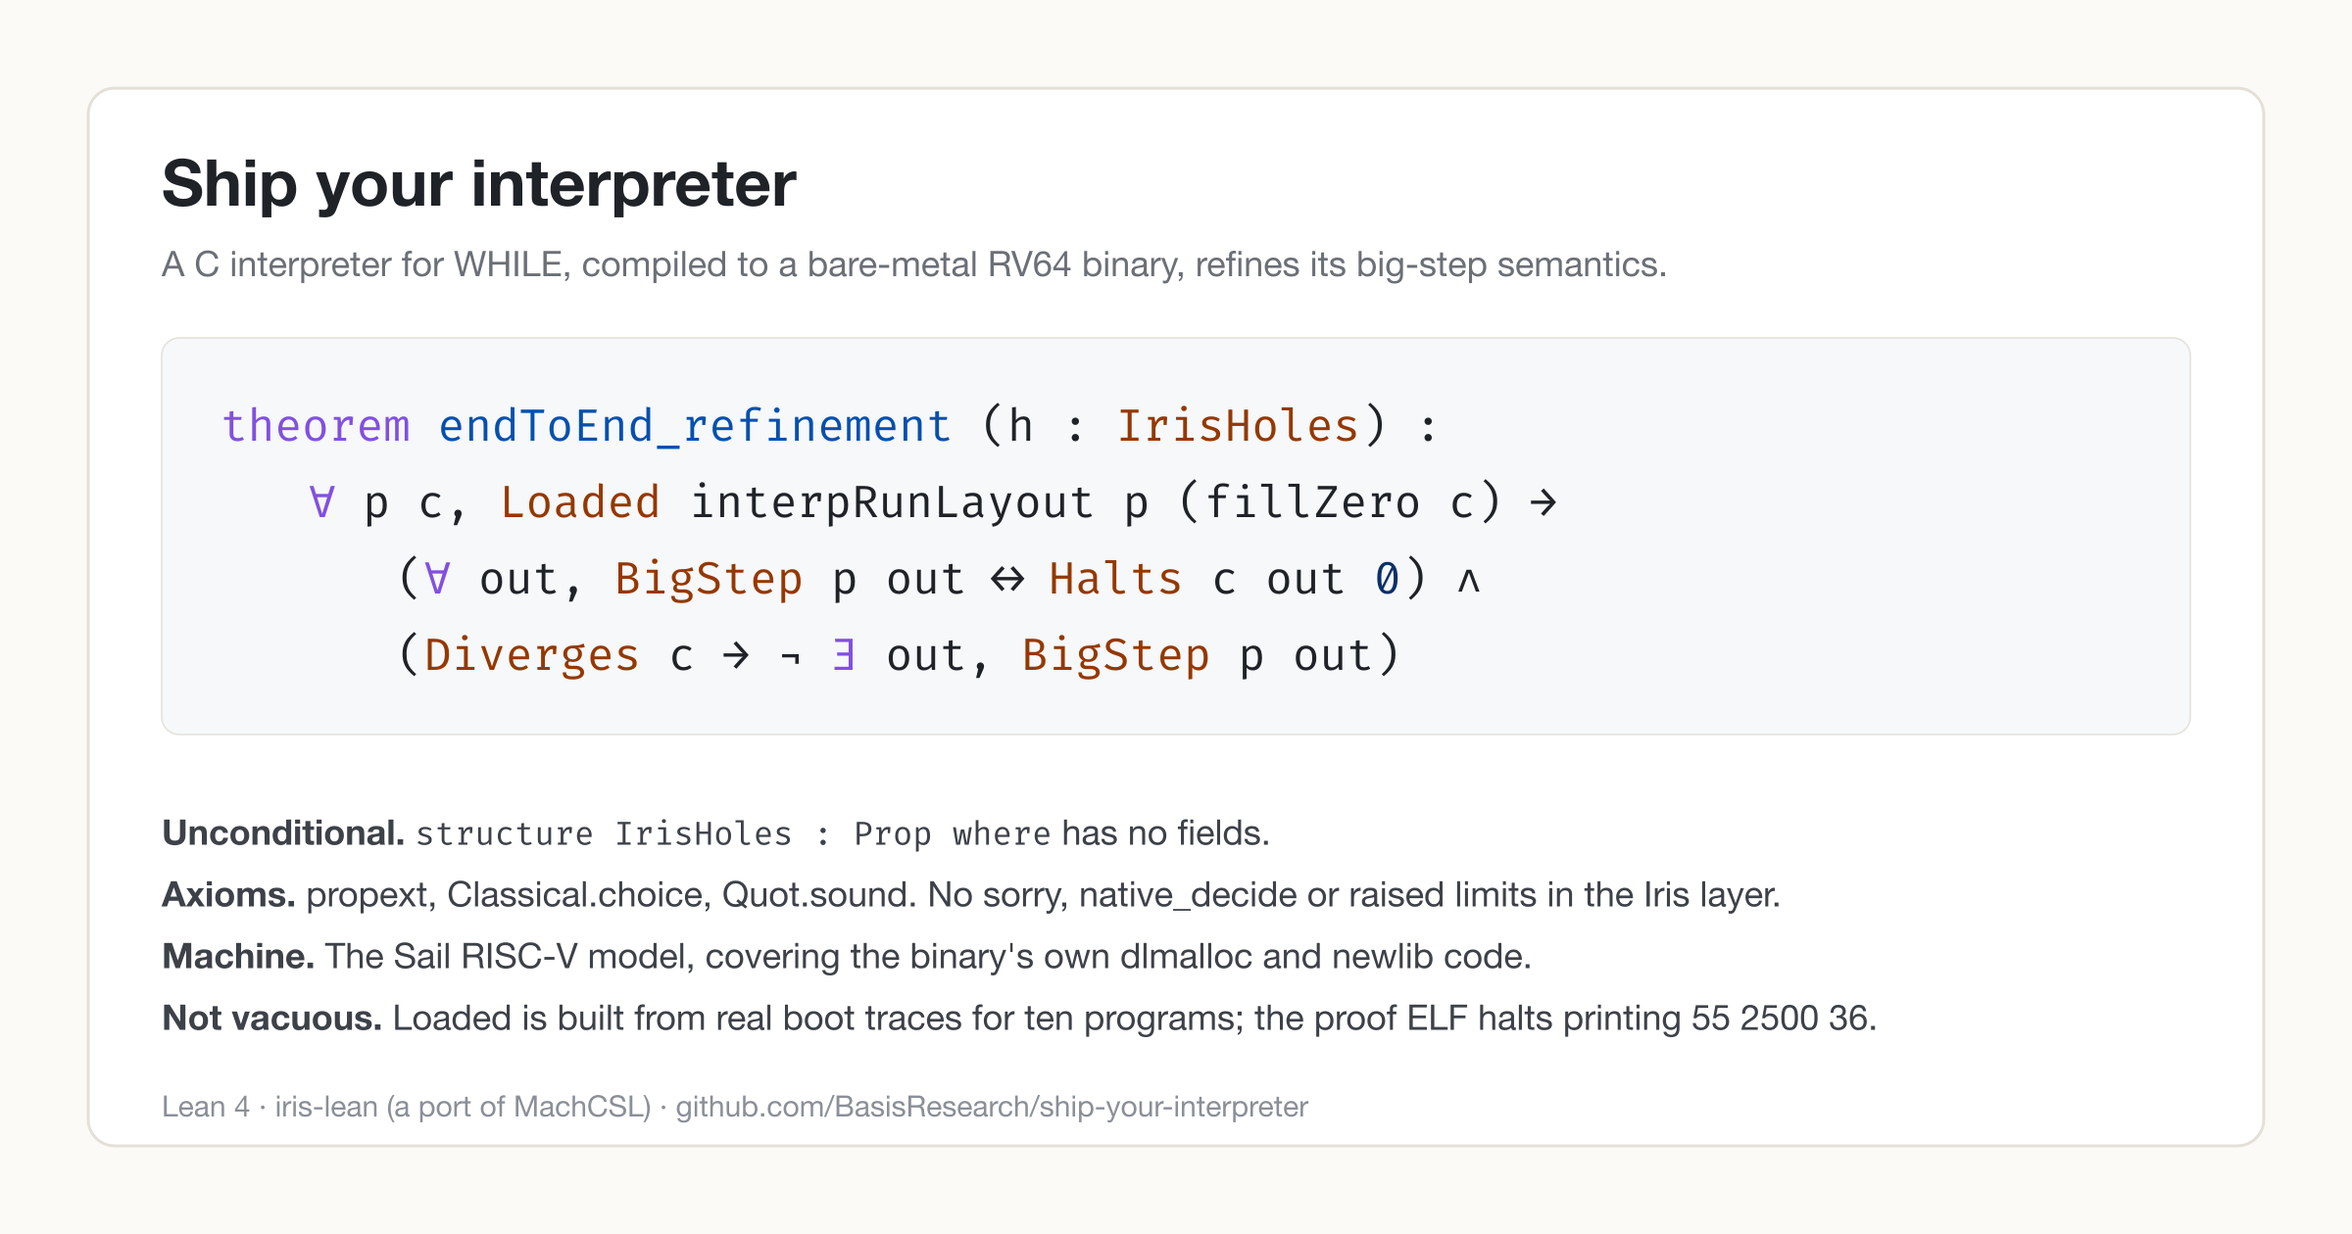
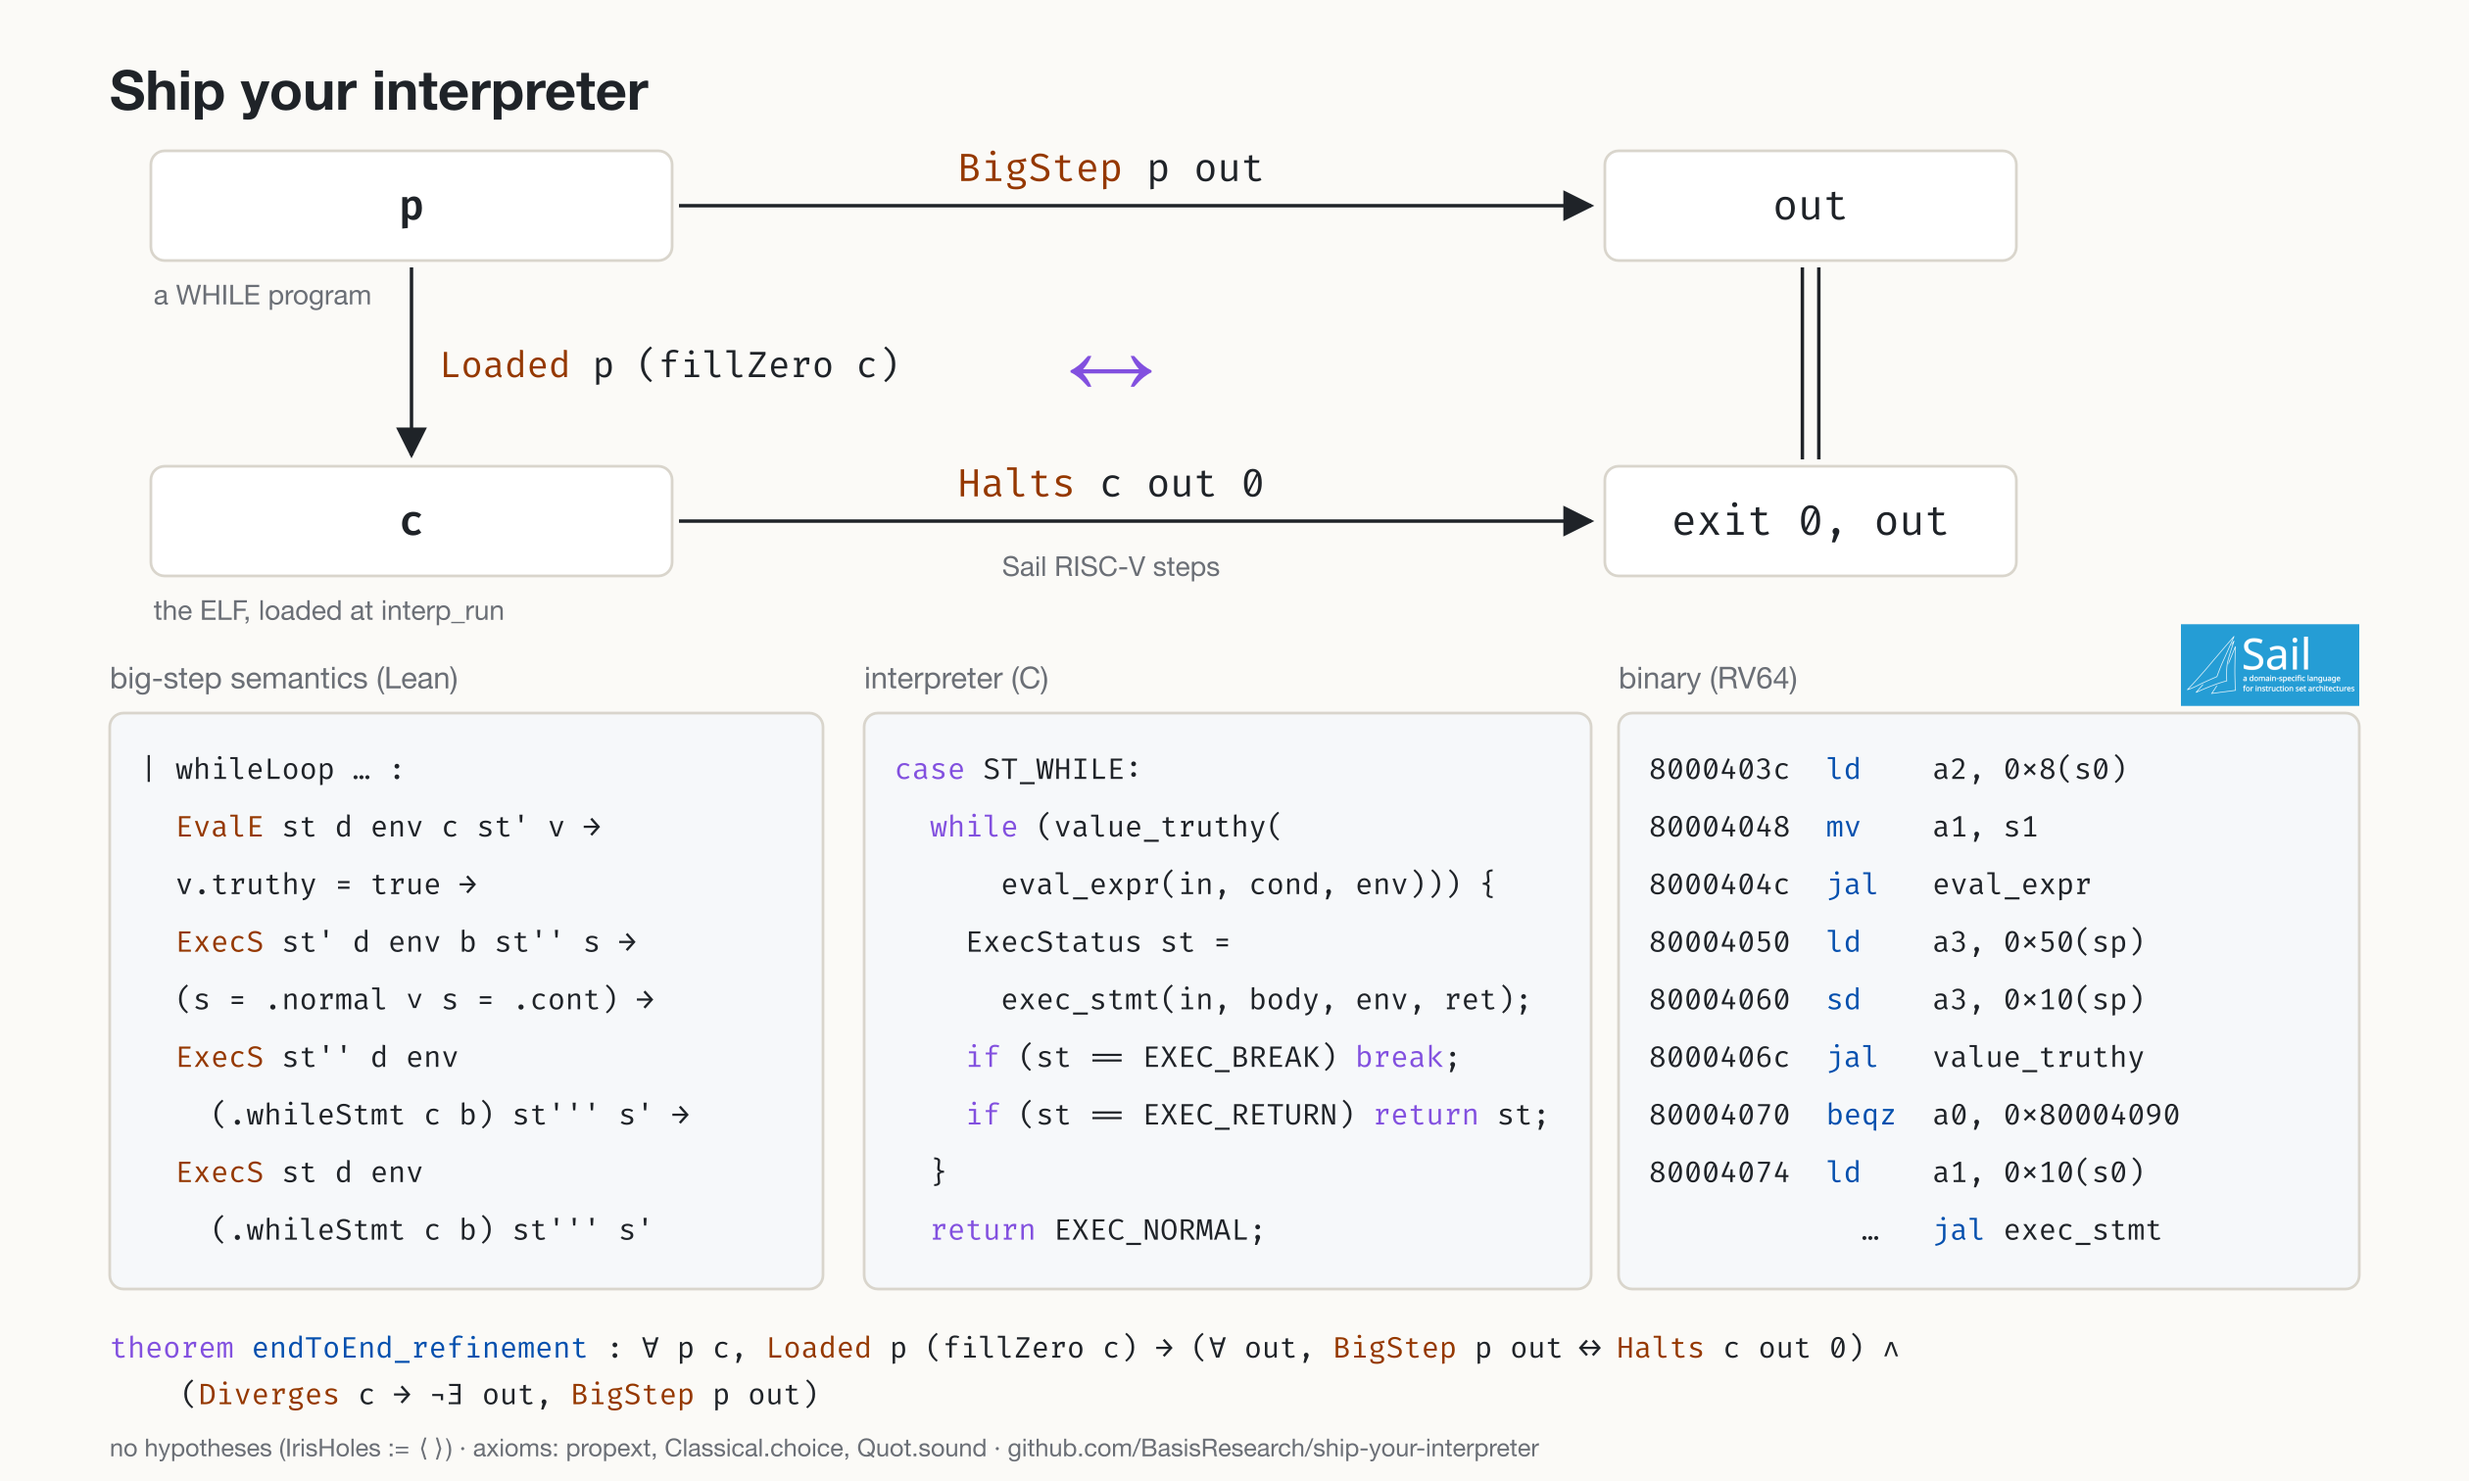
README and figure: the theorem, the commuting square, and the while loop at three levels
Replaces the prose summary with the statement, facts and a figure: the WHILE
big-step rule, the C interpreter's loop, and the RV64 code under Sail.

diff --git a/README.md b/README.md
@@ -5,28 +5,20 @@ interpreter compiled to bare-metal RV64 with HTIF I/O. The proof relates an
 inductive big-step semantics of WHILE to the binary's execution in the
 Sail-generated RISC-V model.
 
-**The result.** `Vsa.Sim.EndToEnd.endToEnd_refinement`
-([`VsaIris/Interp/EndToEnd.lean`](VsaIris/Interp/EndToEnd.lean)) is proved
-unconditionally: its only hypothesis, `VsaIris.Interp.IrisHoles`
-([`VsaIris/Interp/Holes.lean`](VsaIris/Interp/Holes.lean)), is a structure with
-no fields, and every newlib and allocator routine the binary calls is proved
-against the real machine code. The only axioms are `propext`,
-`Classical.choice` and `Quot.sound`. [`docs/RESULT.md`](docs/RESULT.md) tells the
-story in prose.
+![endToEnd_refinement](docs/theorem.png)
 
-![The end-to-end theorem](docs/theorem.png)
+```lean
+theorem endToEnd_refinement (h : IrisHoles) :
+    ∀ p c, Loaded interpRunLayout p (fillZero c) →
+      (∀ out, BigStep p out ↔ Halts c out 0) ∧
+      (Diverges c → ¬ ∃ out, BigStep p out)
+```
 
-The hypothesis `Loaded` is built from real boot traces of the binary for ten
-programs (`Vsa/Sim/Boot/`, library `VsaBoot`), and
-[`Vsa/Sim/Boot/EndToEnd.lean`](Vsa/Sim/Boot/EndToEnd.lean) applies the theorem at
-those real entry states, for example `proofElf_halts`: the proof ELF halts
-printing `55 2500 36` with exit code 0. `Loaded` asks two things of a
-program: its modelled heap use fits the arena (`capacity`) and its recursion
-fits the stack (`stack_admissible`). [`REVIEW.md`](REVIEW.md) is the adversarial
-soundness review of the final theorem's hypotheses. The proof uses Iris
-(iris-lean) with a port of MachCSL's machine-code separation logic
-([`VsaIris/`](VsaIris), design in
-[`VsaIris/INTERP_DESIGN.md`](VsaIris/INTERP_DESIGN.md)).
+- Statement: [`VsaIris/Interp/EndToEnd.lean`](VsaIris/Interp/EndToEnd.lean). `IrisHoles` has no fields ([`VsaIris/Interp/Holes.lean`](VsaIris/Interp/Holes.lean)).
+- Axioms: `propext`, `Classical.choice`, `Quot.sound`.
+- `Loaded` witnesses from real boot traces of ten programs: [`Vsa/Sim/Boot/`](Vsa/Sim/Boot). The proof ELF: `proofElf_halts` ([`Vsa/Sim/Boot/EndToEnd.lean`](Vsa/Sim/Boot/EndToEnd.lean)).
+- Assumptions on the program: `capacity` (heap fits the arena), `stack_admissible` (recursion fits the stack).
+- Soundness review of the hypotheses: [`REVIEW.md`](REVIEW.md). Iris layer and its design: [`VsaIris/`](VsaIris), [`VsaIris/INTERP_DESIGN.md`](VsaIris/INTERP_DESIGN.md).
 
 The tooling that makes this tractable is documented separately in
 [`TOOLING.md`](TOOLING.md): proof generators, validation commands, and
